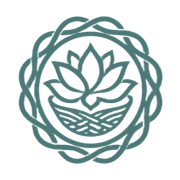
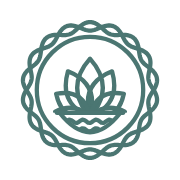
feat: update app branding and assets
- Updated logo and favicon assets including PNG and ICO formats.
- Changed background and theme colors in the manifest and HTML meta tags.
- Added a script to generate logos and favicons using Playwright.
- Implemented email report functionality for Pro users in the API.
- Added tests for email report functionality to ensure proper access control.

diff --git a/tests/Feature/Api/V1/ReportControllerTest.php b/tests/Feature/Api/V1/ReportControllerTest.php
@@ -69,6 +69,26 @@ class ReportControllerTest extends TestCase
             ->assertJson(['upgrade_required' => true]);
     }
 
+    public function test_email_report_returns_402_for_free_user(): void
+    {
+        $user = User::factory()->create();
+
+        $this->actingAs($user, 'sanctum')
+            ->postJson('/api/v1/reports/email', ['format' => 'csv'])
+            ->assertStatus(402)
+            ->assertJson(['upgrade_required' => true]);
+    }
+
+    public function test_email_report_is_scheduled_for_pro_user(): void
+    {
+        $user = User::factory()->pro()->create();
+
+        $this->actingAs($user, 'sanctum')
+            ->postJson('/api/v1/reports/email', ['format' => 'csv'])
+            ->assertStatus(200)
+            ->assertJsonPath('data.scheduled', true);
+    }
+
     public function test_export_csv_streams_csv_content(): void
     {
         $user = User::factory()->pro()->create();

diff --git a/resources/views/layout/main-public.blade.php b/resources/views/layout/main-public.blade.php
@@ -10,7 +10,7 @@
     <link href="{{ asset('assets/media/app/favicon-32x32.png') }}" rel="icon" sizes="32x32" type="image/png" />
     <link href="{{ asset('assets/media/app/favicon-16x16.png') }}" rel="icon" sizes="16x16" type="image/png" />
     <link href="{{ asset('assets/media/app/favicon.ico') }}" rel="shortcut icon" />
-    <meta content="#059669" name="theme-color" />
+    <meta content="#4B7672" name="theme-color" />
     <link href="https://fonts.googleapis.com/css2?family=Inter:wght@400;500;600;700&display=swap" rel="stylesheet" />
     <link href="{{ asset('assets/vendors/keenicons/styles.bundle.css') }}" rel="stylesheet" />
     <link href="{{ asset('assets/css/styles.css') }}" rel="stylesheet" />

diff --git a/routes/api.php b/routes/api.php
@@ -91,7 +91,7 @@ Route::prefix('v1')->name('api.v1.')->group(function () {
             Route::prefix('reports')->name('reports.')->group(function () {
                 Route::get('/', [ReportController::class, 'generate'])->name('generate');
                 Route::get('csv', [ReportController::class, 'exportCsv'])->name('csv')->middleware('pro');
-                Route::post('email', [ReportController::class, 'emailReport'])->name('email');
+                Route::post('email', [ReportController::class, 'emailReport'])->name('email')->middleware('pro');
             });
 
             // Histórico de preços — exclusivo do plano Pro

diff --git a/resources/views/layout/main-login.blade.php b/resources/views/layout/main-login.blade.php
@@ -24,7 +24,7 @@
     <link href="{{ asset('assets/media/app/favicon-16x16.png') }}" rel="icon" sizes="16x16" type="image/png" />
     <link href="{{ asset('assets/media/app/favicon.ico') }}" rel="shortcut icon" />
     <link href="{{ asset('manifest.webmanifest') }}" rel="manifest" />
-    <meta content="#059669" name="theme-color" />
+    <meta content="#4B7672" name="theme-color" />
     <meta content="yes" name="mobile-web-app-capable" />
     <meta content="yes" name="apple-mobile-web-app-capable" />
     <meta content="default" name="apple-mobile-web-app-status-bar-style" />

diff --git a/resources/views/layout/main.blade.php b/resources/views/layout/main.blade.php
@@ -26,7 +26,7 @@
     <link href="{{ asset('assets/media/app/favicon-16x16.png') }}" rel="icon" sizes="16x16" type="image/png" />
     <link href="{{ asset('assets/media/app/favicon.ico') }}" rel="shortcut icon" />
     <link href="{{ asset('manifest.webmanifest') }}" rel="manifest" />
-    <meta content="#059669" name="theme-color" />
+    <meta content="#4B7672" name="theme-color" />
     <meta content="yes" name="mobile-web-app-capable" />
     <meta content="yes" name="apple-mobile-web-app-capable" />
     <meta content="default" name="apple-mobile-web-app-status-bar-style" />
